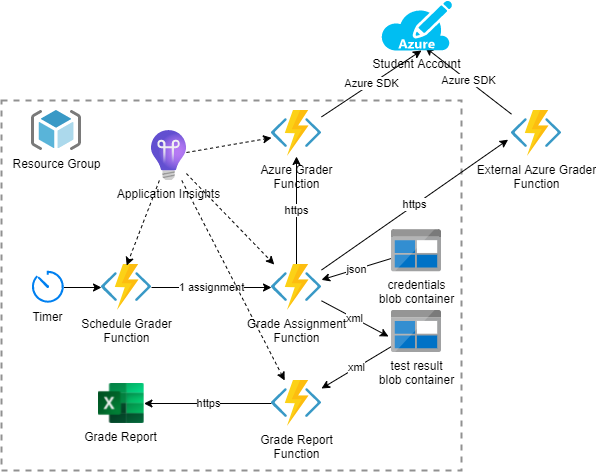
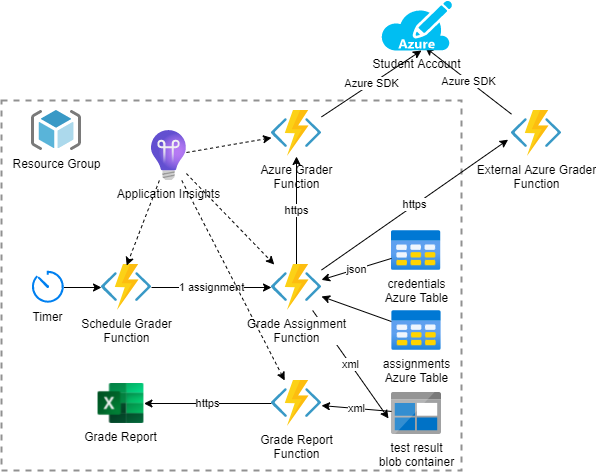
Add Student Registration demo video and registraion steps. Update GraderArchitecture.png with Azure Table.

diff --git a/README.md b/README.md
@@ -58,16 +58,18 @@ To prevent typo for assignment name and and email address, use mail merge to sen
 
 https://somethingunique.azurewebsites.net/api/StudentRegistrationFunction?project=it114115&email=cywong@vtc.edu.hk
 
-## Student Tasks
-
-1. Open the link from email.
-
-2. Open Azure Cloud Shell and run
-
-az ad sp create-for-rbac -n "foraazuregrader" --sdk-auth
-
-3. Copy down the result json and submit the form.
-
+## Student Registration Steps
+[![IMAGE ALT TEXT](http://img.youtube.com/vi/t7PEhPoilLY/0.jpg)](https://youtu.be/t7PEhPoilLY "How to register your student subscription into Azure Automatic Grading Engine")
+1.	Login into your Azure Portal.
+2.	Check your Subscription ID.
+3.	Open Cloud Shell.
+4.	Change your subscription
+<code>az account set --subscription <your-subscriptions-id></code>
+5.	Check the current subscriptions.
+<code>az account show</code>
+6.	Create SDK Auth 
+<code>az ad sp create-for-rbac -n "gradingengine" --sdk-auth</code>
+7.	Submit online registration form.
 
 Remark: Subscription ID must be unique for each assignment.
 
